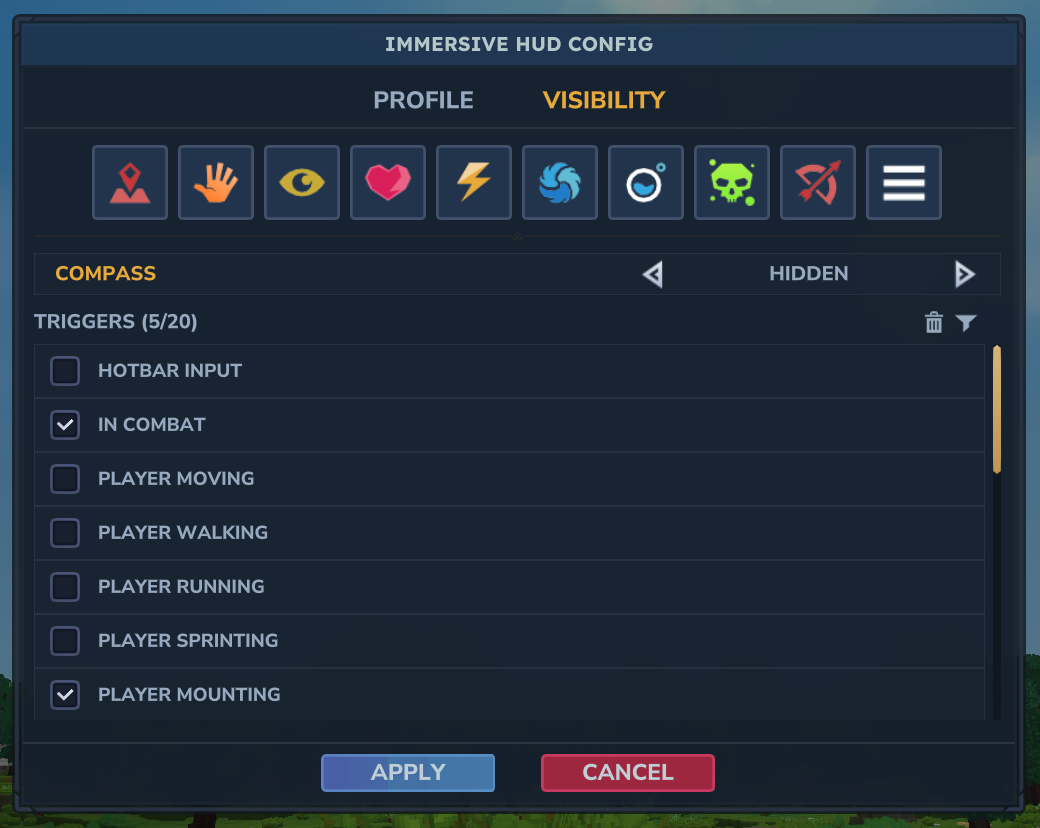
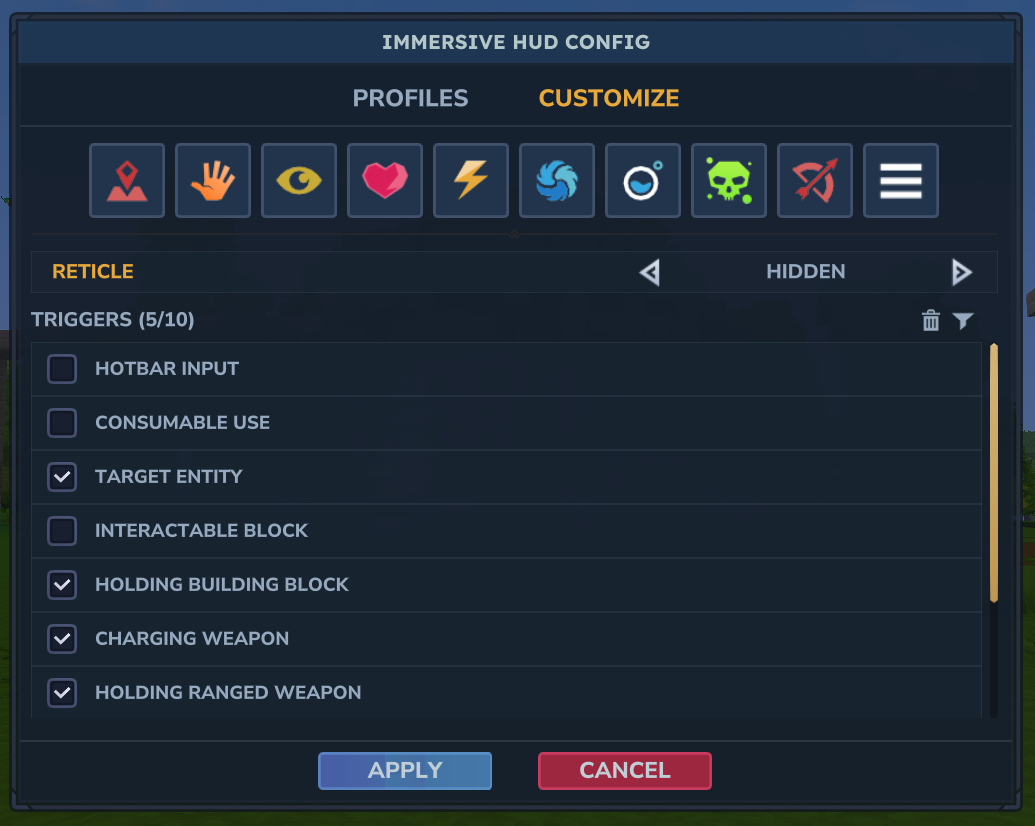
Rename configuration tabs and enable navigation tooltips

diff --git a/src/main/java/com/tom/immersivehudplugin/ui/HudConfigView.java b/src/main/java/com/tom/immersivehudplugin/ui/HudConfigView.java
@@ -2,7 +2,7 @@ package com.tom.immersivehudplugin.ui;
 
 public enum HudConfigView {
     PROFILES ("Profiles"),
-    VISIBILITY("Visibility");
+    VISIBILITY("Customize");
 
     private final String label;
 

diff --git a/README.md b/README.md
@@ -207,13 +207,13 @@ Use command `/ihud config` to open in-game configuration UI to manage visibility
 
 The configuration UI pauses private singleplayer games while open. Dedicated servers and games shared over LAN or with friends keep running. Closing the UI only releases a pause initiated by ImmersiveHUD.
 
-1. Select one of the available profiles to start customizing your experience
-<p style="text-align:center;"><img src="assets/001_iHUD_Config_Profiles.png" alt="Immersive HUD Config Profile"/></p>
+1. Open the **PROFILES** tab and select one of the available profiles to start customizing your experience.
+<p style="text-align:center;"><img src="assets/001_iHUD_Config_Profiles.png" alt="Immersive HUD Config Profiles"/></p>
 
-2. Configure the visibility and rules to hide or show the different HUD elements
-<p style="text-align:center;"><img src="assets/002_iHUD_Config_Visibility_dynamic_component.png" alt="Immersive HUD Config Visibility Dynamic component"/></p>
+2. Open the **CUSTOMIZE** tab to choose which HUD elements appear and configure the rules that determine when they are shown.
+<p style="text-align:center;"><img src="assets/002_iHUD_Config_Visibility_dynamic_component.png" alt="Immersive HUD Config Customize Dynamic component"/></p>
 
-<p style="text-align:center;"><img src="assets/003_iHUD_Config_Visibility_static_components.png" alt="Immersive HUD Config Visibility Static components"/></p>
+<p style="text-align:center;"><img src="assets/003_iHUD_Config_Visibility_static_components.png" alt="Immersive HUD Config Customize Static components"/></p>
 
 3. Finally, press **APPLY** to save and activate your configuration and start enjoying your new Immersive HUD experience.
 

diff --git a/CHANGELOG.md b/CHANGELOG.md
@@ -8,6 +8,7 @@
 * `Immersive` profile now shows the hotbar, reticle, health, mana, and compass during combat.
 * `Balanced` profile now shows the reticle while holding a placeable block or decoration.
 * UI: Added descriptive tooltips to all trigger names in the configuration UI.
+* UI: Renamed the configuration tabs from `Profile` and `Visibility` to `Profiles` and `Customize`, and enabled descriptive tooltips on both tab buttons.
 * Added `HOLDING_BUILDING_BLOCK` trigger for the reticle. Shows the reticle while holding a building block or a placeable item when crouching.
 
 **Technical Changes**
